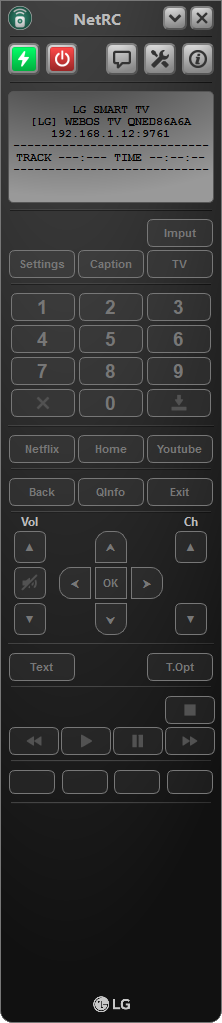
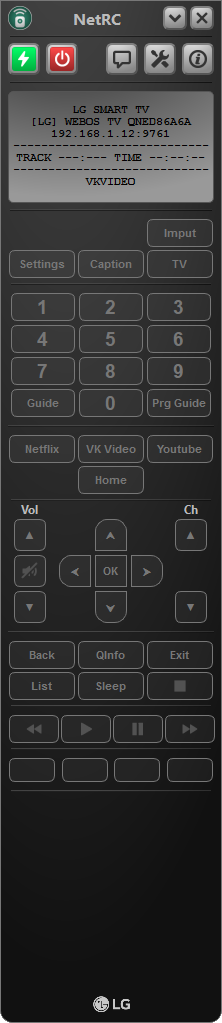
Some LG TV improvements
Add standard buttons label replacement
Add display current LG app

diff --git a/src/remotecontrol.cpp b/src/remotecontrol.cpp
@@ -830,8 +830,15 @@ void RemoteControl::reconnect() {
                         QRegularExpression(QString("rc_lbl_").append(key)), Qt::FindChildrenRecursively);
             for(QLabel* label: std::as_const(labels)) {
                 label->setText(lbls.value(key));
-//                label->setText(
             }
+            QList<QPushButton*> btns = ui->centralWidget->findChildren<QPushButton*>(
+                        QRegularExpression(QString("rc_btn_").append(key)), Qt::FindChildrenRecursively);
+            for(QPushButton* btn: std::as_const(btns)) {
+                btn->setIcon(QIcon());
+                btn->setText(lbls.value(key));
+                btn->setStyleSheet("font: bold 11px Arial;");
+            }
+
         }
     }
     currentPingIndex = 0;

diff --git a/src/debug.cpp b/src/debug.cpp
@@ -14,9 +14,14 @@
 */
 #include "debug.h"
 #include "QCheckBox"
+#include <QListWidget>
 #include <QMetaEnum>
 #include <QDateTime>
 #include "ui_debug.h"
+
+
+
+
 
 Debug::Debug(DeviceInterface *deviceInterface, QWidget *parent) :
     QDialog(parent),
@@ -59,7 +64,6 @@ Debug::Debug(DeviceInterface *deviceInterface, QWidget *parent) :
     QSettings sets(qApp->organizationName(), qApp->applicationName());
     sets.beginGroup("global");
     sets.setValue("debugEnabled", true);
-
     sets.endGroup();
 }
 

diff --git a/src/aboutdialog.cpp b/src/aboutdialog.cpp
@@ -15,7 +15,10 @@
 #include "aboutdialog.h"
 #include "ui_aboutdialog.h"
 #include "commons.h"
+#include "debug.h"
+
 #include <QImage>
+#include <QListWidget>
 #include <QGraphicsOpacityEffect>
 #include <QApplication>
 #include <QtGui>
@@ -65,6 +68,7 @@ AboutDialog::AboutDialog(QWidget *parent) :
         // });
         connect(anim, SIGNAL(currentLoopChanged(int)), this, SLOT(changeContributor()));
     }
+
 }
 
 AboutDialog::~AboutDialog() {

diff --git a/src/include/debug.h b/src/include/debug.h
@@ -18,6 +18,7 @@
 #include <QDialog>
 #include <QLabel>
 #include "deviceinterface.h"
+#include <QWidget>
 
 namespace Ui {
 class Debug;
